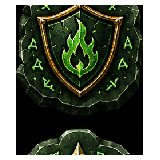
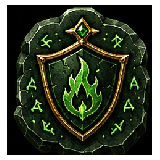
fix: pixel-detected emblem slicing (no clipping) + codex bottom clearance
Emblem bounding boxes are now detected from brightness profiles instead of
fixed grid rectangles, so no emblem is ever cut off; codex scroll area clears
the fixed tab bar.

diff --git a/src/ui/hero/Codex.tsx b/src/ui/hero/Codex.tsx
@@ -56,7 +56,7 @@ export default function Codex({ onClose }: { onClose: () => void }) {
     <div
       style={{
         position: 'fixed', inset: 0, zIndex: 80, background: '#000',
-        overflowY: 'auto', padding: 16, display: 'flex', justifyContent: 'center',
+        overflowY: 'auto', padding: '16px 16px 96px', display: 'flex', justifyContent: 'center',
       }}
     >
       <div style={{ width: '100%', maxWidth: 398, background: '#000' }}>
